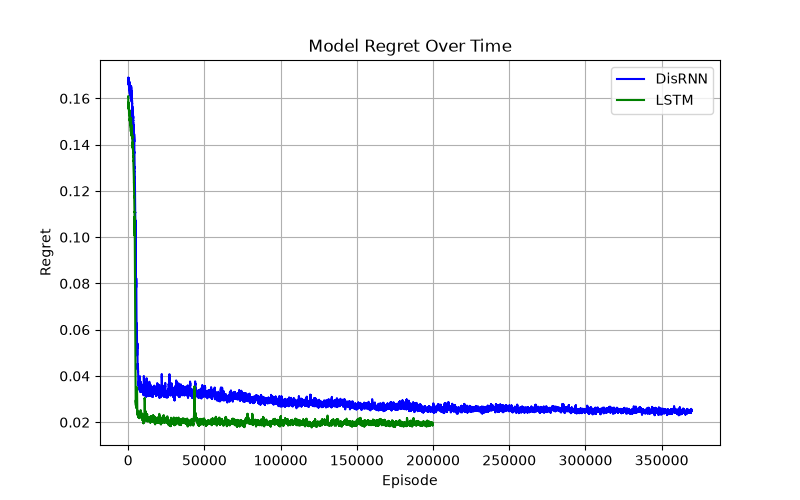
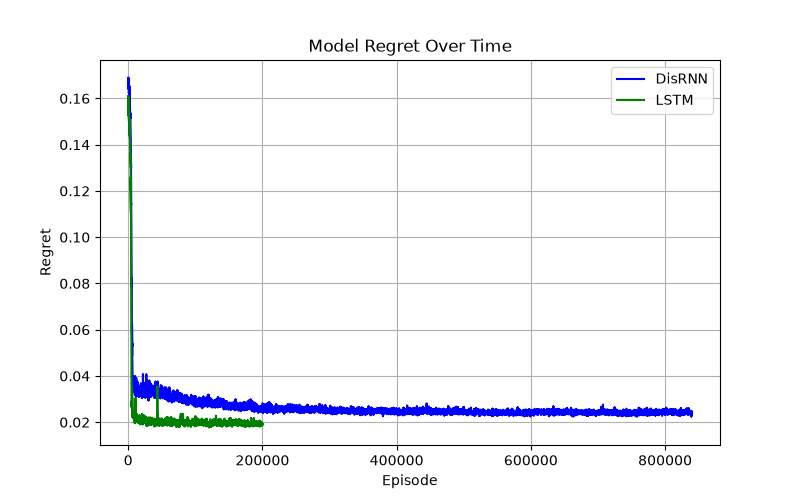
implement restless bandits

Changed region(s): [[0.1562, 0.18, 0.875, 0.87], [0.2188, 0.9, 0.875, 0.93]]

diff --git a/train.py b/train.py
@@ -6,6 +6,9 @@ def train(config, checkpoints_path, figs_path):
     # set task
     D = config['D']
     num_trials = config['num_trials']
+    restless = config['restless']
+    drift = config['drift']
+    dependent_arms = config['dependent_arms']
 
 
     # initialize training models and optimizers
@@ -154,8 +157,16 @@ def train(config, checkpoints_path, figs_path):
                 LSTM_expected_returns.append(LSTM_critic(LSTM_out.squeeze(0)).squeeze(-1))
                 LSTM_entropies.append(LSTM_pi.entropy())
                 LSTM_regrets.append(probs.max(dim= -1).values - probs[batch_idx, LSTM_a])
-            
 
+
+            # restless bandits
+            if restless:
+                probs += drift * torch.randn(batch_size, num_arms, device= device)
+                probs = torch.clamp(probs, 0, 1)
+                if dependent_arms:
+                    probs[:, 1] = 1 - probs[:, 0]
+
+            
         DisRNN_log_probs = torch.stack(DisRNN_log_probs)
         DisRNN_rewards = torch.stack(DisRNN_rewards)
         DisRNN_expected_returns = torch.stack(DisRNN_expected_returns)
@@ -414,20 +425,25 @@ def train(config, checkpoints_path, figs_path):
 
 
 
-for exp, config in exps.items():
-    begin_training = True
-    checkpoints_path = f'checkpoints/{exp}/seed{seed}/'
-    figs_path = f'figs/{exp}/seed{seed}/'
-    if os.path.exists(checkpoints_path) or os.path.exists(figs_path):
-        res = input(
-            f"There is history for experiment: {exp} bandits, seed: {seed}. "
-            "Do you want to overwrite it? (y/n): "
-        )
-        begin_training = res.lower() == 'y'
+def main():
+    for exp, config in exps.items():
+        begin_training = True
+        checkpoints_path = f'checkpoints/{exp}/seed{seed}/'
+        figs_path = f'figs/{exp}/seed{seed}/'
+        if os.path.exists(checkpoints_path) or os.path.exists(figs_path):
+            res = input(
+                f"There is history for experiment: {exp} bandits, seed: {seed}. "
+                "Do you want to overwrite it? (y/n): "
+            )
+            begin_training = res.lower() == 'y'
 
-    if begin_training:
-        os.makedirs(checkpoints_path, exist_ok=True)
-        os.makedirs(figs_path, exist_ok=True)
+        if begin_training:
+            os.makedirs(checkpoints_path, exist_ok=True)
+            os.makedirs(figs_path, exist_ok=True)
 
-        print(f"Beginning training for experiment {exp} bandits, seed {seed}.\n")
-        train(config, checkpoints_path, figs_path)
+            print(f"Beginning training for experiment {exp} bandits, seed {seed}.\n")
+            train(config, checkpoints_path, figs_path)
+
+
+if __name__ == "__main__":
+    main()

diff --git a/test.py b/test.py
@@ -9,6 +9,9 @@ def test(config, checkpoints_path, figs_path):
     # set task
     D = config['D']
     num_trials = config['num_trials']
+    restless = config['restless']
+    drift = config['drift']
+    dependent_arms = config['dependent_arms']
 
 
     # initialize models
@@ -113,8 +116,16 @@ def test(config, checkpoints_path, figs_path):
                     gittins_r = arm_rewards[gittins_a].item()
                     gittins.getReward(gittins_a, gittins_r)
                     gittins_regrets.append(optimal.item() - probs[0, gittins_a].item())
-                    
 
+
+                    # restless bandits
+                    if restless:
+                        probs += drift * torch.randn(1, num_arms, device= device)
+                        probs = torch.clamp(probs, 0, 1)
+                        if dependent_arms:
+                            probs[:, 1] = 1 - probs[:, 0]
+
+                    
             DisRNN_raw_regrets.append(np.array(DisRNN_regrets))
             LSTM_raw_regrets.append(np.array(LSTM_regrets))
             thompson_raw_regrets.append(np.array(thompson_regrets))
@@ -208,17 +219,22 @@ def test(config, checkpoints_path, figs_path):
 
 
 
-for exp, config in exps.items():
-    begin_testing = True
-    checkpoints_path = f'checkpoints/{exp}/seed{seed}/'
-    figs_path = f'figs/{exp}/seed{seed}/'
-    if os.path.exists(figs_path + 'cumulative_regret.png') or os.path.exists(figs_path  + 'optimal_arm_rate.png'):
-        res = input(
-            f"There is history for experiment: {exp} bandits, seed: {seed}. "
-            "Do you want to overwrite it? (y/n): "
-        )
-        begin_testing = res.lower() == 'y'
+def main():
+    for exp, config in exps.items():
+        begin_testing = True
+        checkpoints_path = f'checkpoints/{exp}/seed{seed}/'
+        figs_path = f'figs/{exp}/seed{seed}/'
+        if os.path.exists(figs_path + 'cumulative_regret.png') or os.path.exists(figs_path  + 'optimal_arm_rate.png'):
+            res = input(
+                f"There is history for experiment: {exp} bandits, seed: {seed}. "
+                "Do you want to overwrite it? (y/n): "
+            )
+            begin_testing = res.lower() == 'y'
 
-    if begin_testing:
-        print(f"Beginning testing for experiment {exp} bandits, seed {seed}.\n")
-        test(config, checkpoints_path, figs_path)
+        if begin_testing:
+            print(f"Beginning testing for experiment {exp} bandits, seed {seed}.\n")
+            test(config, checkpoints_path, figs_path)
+
+
+if __name__ == "__main__":
+    main()

diff --git a/latents.py b/latents.py
@@ -6,6 +6,9 @@ def latents_analysis(config, checkpoints_path, figs_path):
     # set task
     D = config['D']
     num_trials = config['num_trials']
+    restless = config['restless']
+    drift = config['drift']
+    dependent_arms = config['dependent_arms']
 
 
     # initialize DisRNN
@@ -50,6 +53,15 @@ def latents_analysis(config, checkpoints_path, figs_path):
                 latent_history.append(h)
                 action_history.append(a)
                 reward_history.append(r)
+
+
+                # restless bandits
+                if restless:
+                    probs += drift * torch.randn(1, num_arms, device= device)
+                    probs = torch.clamp(probs, 0, 1)
+                    if dependent_arms:
+                        probs[:, 1] = 1 - probs[:, 0]
+
 
         latent_history = torch.stack(latent_history).squeeze(1).cpu().numpy()
         action_history = torch.stack(action_history).cpu().numpy()
@@ -135,17 +147,26 @@ def latents_analysis(config, checkpoints_path, figs_path):
         plt.savefig(figs_path + f'latent_updates_at_trial{t}.png')
         plt.close()
 
-for exp, config in exps.items():
-    begin_latents_analysis = True
-    checkpoints_path = f'checkpoints/{exp}/seed{seed}/'
-    figs_path = f'figs/{exp}/seed{seed}/latents/'
-    if os.path.exists(figs_path):
-        res = input(
-            f"There is history for experiment: {exp} bandits, seed: {seed}. "
-            "Do you want to overwrite it? (y/n): "
-        )
-        begin_latents_analysis = res.lower() == 'y'
 
-    if begin_latents_analysis:
-        print(f"Beginning latents analysis for experiment {exp} bandits, seed {seed}.\n")
-        latents_analysis(config, checkpoints_path, figs_path)
+
+
+def main():
+    for exp, config in exps.items():
+        begin_latents_analysis = True
+        checkpoints_path = f'checkpoints/{exp}/seed{seed}/'
+        figs_path = f'figs/{exp}/seed{seed}/latents/'
+        if os.path.exists(figs_path):
+            res = input(
+                f"There is history for experiment: {exp} bandits, seed: {seed}. "
+                "Do you want to overwrite it? (y/n): "
+            )
+            begin_latents_analysis = res.lower() == 'y'
+
+        if begin_latents_analysis:
+            print(f"Beginning latents analysis for experiment {exp} bandits, seed {seed}.\n")
+            latents_analysis(config, checkpoints_path, figs_path)
+
+
+if __name__ == "__main__":
+    main()
+    

diff --git a/config.py b/config.py
@@ -54,6 +54,9 @@ exps = {
     'independent': {
         'D': sample_independent_uniform,
         'num_trials': 100,
+        'restless': False,
+        'drift': 0.0,
+        'dependent_arms': False,
         'input_size': 2,
         'hidden_size': {
             'DisRNN': 5,
@@ -82,6 +85,9 @@ exps = {
     'dependent': {
         'D': sample_dependent_uniform,
         'num_trials': 100,
+        'restless': False,
+        'drift': 0.0,
+        'dependent_arms': True,
         'input_size': 2,
         'hidden_size': {
             'DisRNN': 5,
@@ -110,6 +116,9 @@ exps = {
     'dependent_hard': {
         'D': sample_dependent_hard,
         'num_trials': 100,
+        'restless': False,
+        'drift': 0.0,
+        'dependent_arms': True,
         'input_size': 2,
         'hidden_size': {
             'DisRNN': 5,
